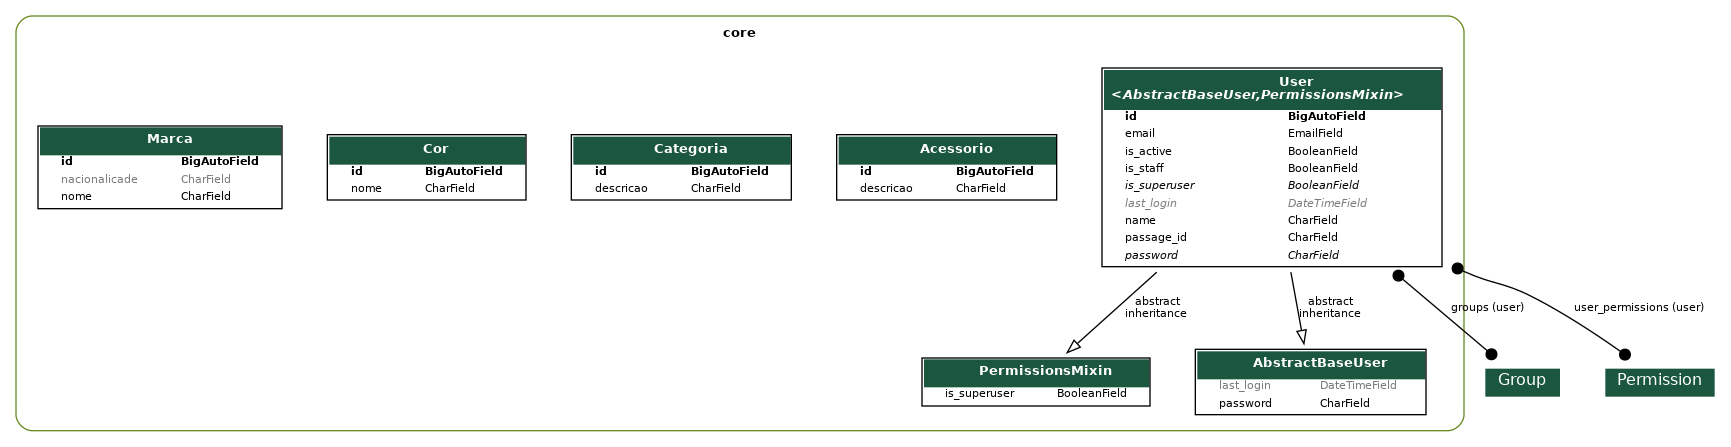
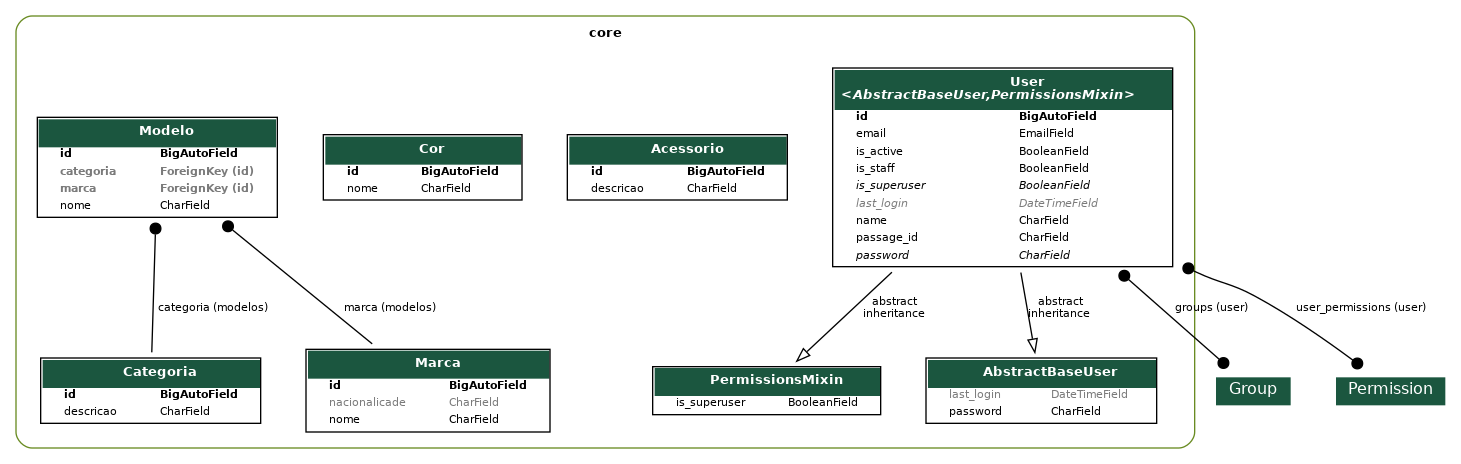
criação da API modelo

Changed region(s): [[0.0, 0.0291, 1.0, 0.9888], [0.2156, 0.6398, 0.308, 0.698], [0.0924, 0.6398, 0.1848, 0.6689]]

diff --git a/core/migrations/0006_modelo.py b/core/migrations/0006_modelo.py
@@ -1,0 +1,41 @@
+# Generated by Django 5.0.6 on 2024-07-02 11:24
+
+import django.db.models.deletion
+from django.db import migrations, models
+
+
+class Migration(migrations.Migration):
+
+    dependencies = [
+        ("core", "0005_marca_alter_cor_options"),
+    ]
+
+    operations = [
+        migrations.CreateModel(
+            name="Modelo",
+            fields=[
+                ("id", models.BigAutoField(auto_created=True, primary_key=True, serialize=False, verbose_name="ID")),
+                ("nome", models.CharField(max_length=100)),
+                (
+                    "categoria",
+                    models.ForeignKey(
+                        blank=True,
+                        null=True,
+                        on_delete=django.db.models.deletion.PROTECT,
+                        related_name="modelos",
+                        to="core.categoria",
+                    ),
+                ),
+                (
+                    "marca",
+                    models.ForeignKey(
+                        blank=True,
+                        null=True,
+                        on_delete=django.db.models.deletion.PROTECT,
+                        related_name="modelos",
+                        to="core.marca",
+                    ),
+                ),
+            ],
+        ),
+    ]

diff --git a/app/urls.py b/app/urls.py
@@ -14,6 +14,7 @@ from core.views import (
     CategoriaViewSet,
     CorViewSet,
     MarcaViewSet,
+    ModeloViewSet,
     UserViewSet,
 )
 
@@ -24,6 +25,7 @@ router.register(r"acessorios", AcessorioViewSet, basename="acessorios")
 router.register(r"categorias", CategoriaViewSet, basename="categorias")
 router.register(r"cores", CorViewSet, basename="cores")
 router.register(r"marcas", MarcaViewSet, basename="marcas")
+router.register(r"modelos", ModeloViewSet, basename="modelos")
 
 urlpatterns = [
     path("admin/", admin.site.urls),

diff --git a/core/models/modelo.py b/core/models/modelo.py
@@ -1,0 +1,13 @@
+from django.db import models
+
+from .categoria import Categoria
+from .marca import Marca
+
+
+class Modelo(models.Model):
+    nome = models.CharField(max_length=100)
+    marca = models.ForeignKey(Marca, on_delete=models.PROTECT, related_name="modelos", null=True, blank=True)
+    categoria = models.ForeignKey(Categoria, on_delete=models.PROTECT, related_name="modelos", null=True, blank=True)
+
+    def __str__(self):
+        return f"{self.nome} ({self.marca})"

diff --git a/core/views/modelo.py b/core/views/modelo.py
@@ -1,0 +1,9 @@
+from rest_framework.viewsets import ModelViewSet
+
+from core.models import Modelo
+from core.serializers import ModeloSerializer
+
+
+class ModeloViewSet(ModelViewSet):
+    queryset = Modelo.objects.all()
+    serializer_class = ModeloSerializer

diff --git a/core/serializers/modelo.py b/core/serializers/modelo.py
@@ -1,0 +1,9 @@
+from rest_framework.serializers import ModelSerializer
+
+from core.models import Modelo
+
+
+class ModeloSerializer(ModelSerializer):
+    class Meta:
+        model = Modelo
+        fields = "__all__"

diff --git a/core/serializers/__init__.py b/core/serializers/__init__.py
@@ -3,3 +3,4 @@ from .acessorio import AcessorioSerializer
 from .categoria import CategoriaSerializer
 from .cor import CorSerializer
 from .marca import MarcaSerializer
+from .modelo import ModeloSerializer

diff --git a/core/admin.py b/core/admin.py
@@ -54,3 +54,4 @@ admin.site.register(models.Acessorio)
 admin.site.register(models.Categoria)
 admin.site.register(models.Cor)
 admin.site.register(models.Marca)
+admin.site.register(models.Modelo)

diff --git a/core/views/__init__.py b/core/views/__init__.py
@@ -3,3 +3,4 @@ from .acessorio import AcessorioViewSet
 from .categoria import CategoriaViewSet
 from .cor import CorViewSet
 from .marca import MarcaViewSet
+from .modelo import ModeloViewSet

diff --git a/core/models/__init__.py b/core/models/__init__.py
@@ -3,3 +3,4 @@ from .acessorio import Acessorio
 from .categoria import Categoria
 from .cor import Cor
 from .marca import Marca
+from .modelo import Modelo
